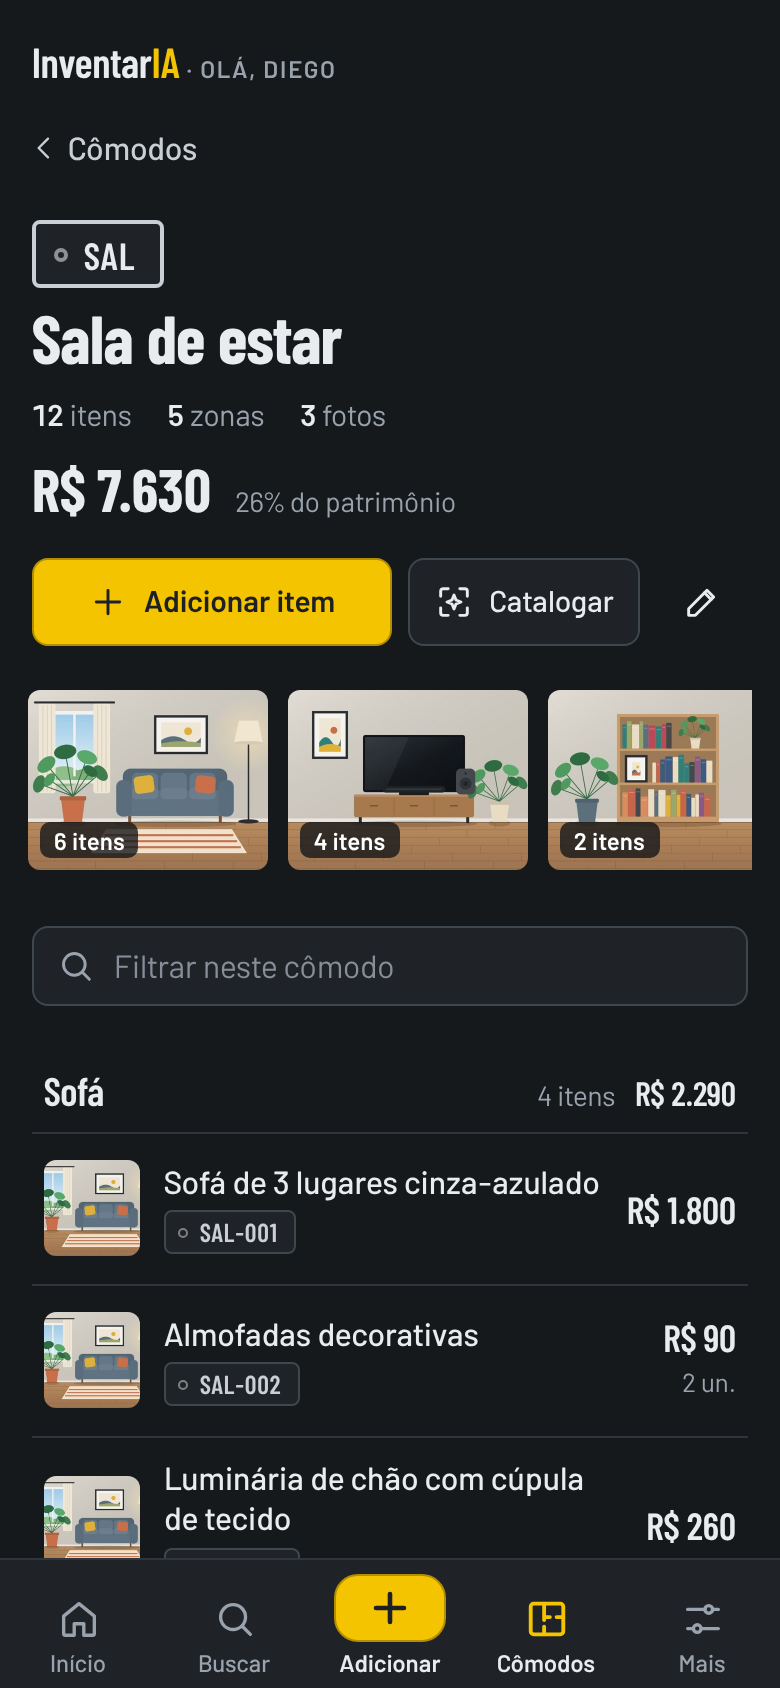
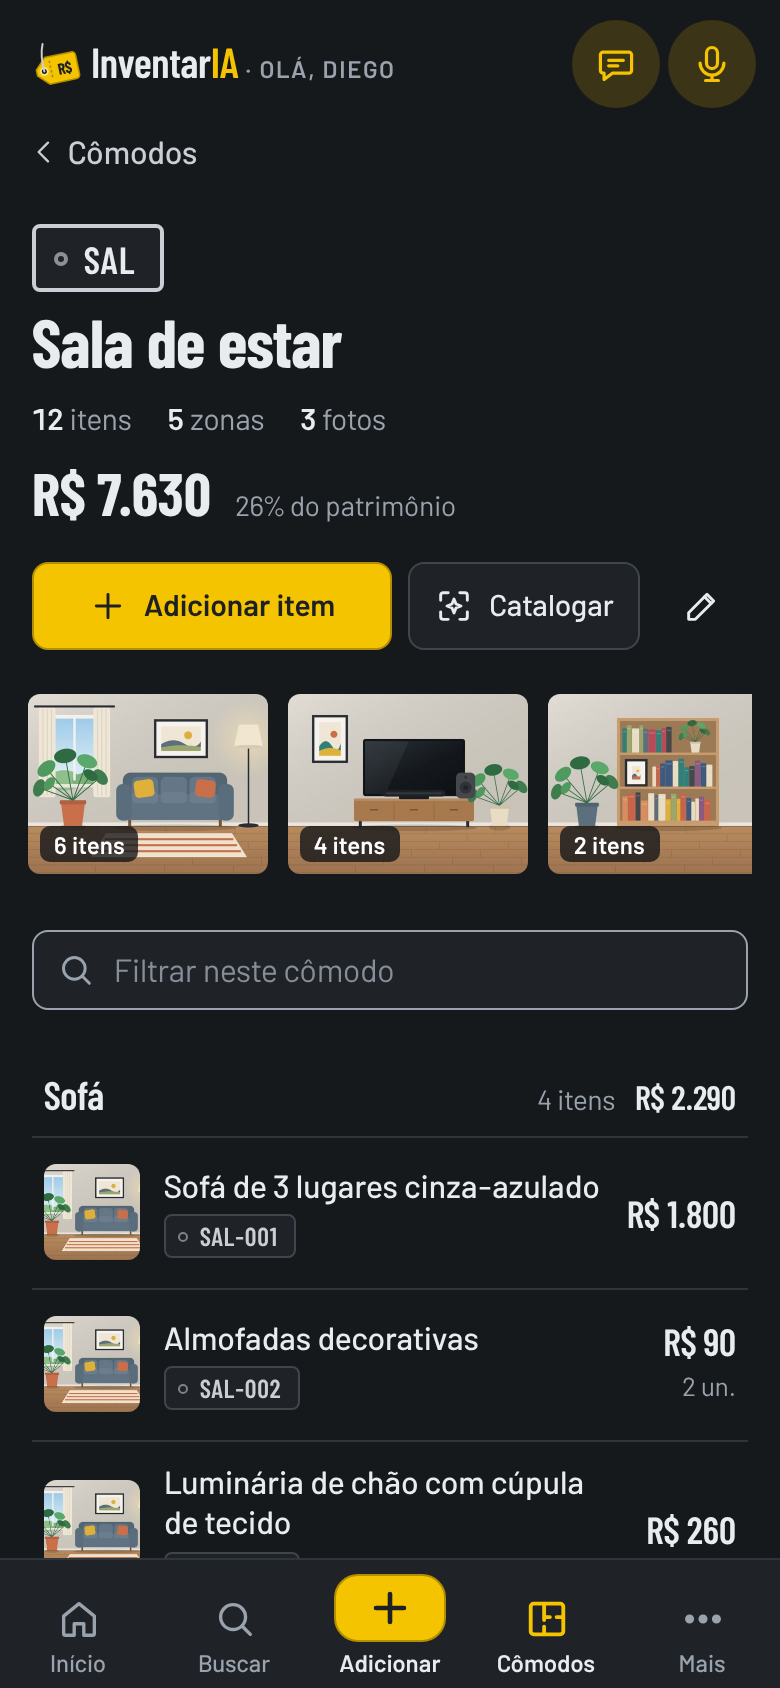
InventarIA: README, manual e prints atualizados
- README: busca no Início, fotos do cômodo com os itens, Duplicar/Mover/Excluir
  com Desfazer, Falar sem IA, os outros apps da casa (ResolvIA, CronologIA,
  GerencIA) e celular/computador.
- DOCS: Ficha do item, Preencher com IA, fotos do cômodo, Relatório e
  Categorias no menu Mais, Configurações num item próprio, barra lateral do
  computador, tipos do Uso da IA, integração com os outros apps e o caminho
  certo da loja (Aplicativos > Loja de aplicativos).
- Prints refeitos com a tela de hoje; Gráficos entra no lugar da lista de
  Cômodos. shots_readme.py liga as zonas sozinho; demo.py usa datas recentes,
  espalhadas por uns três meses.

Claude-Session: https://claude.ai/code/session_019b4houP2YyLE6hAAt79Mdj

diff --git a/tools/shots_readme.py b/tools/shots_readme.py
@@ -1,13 +1,16 @@
 #!/usr/bin/env python3
-"""Tira as 4 imagens do README (docs/*.png) com a casa de exemplo de demo.py.
+"""Tira as 4 imagens do README (docs/*.png) com a casa de exemplo de demo.py: Início, Gráficos, um cômodo e a leitura por IA.
 
 Uso: shots_readme.py <url-do-servidor-de-exemplo> <ia.json> <pasta-de-saida>
-Celular 390x844 em 2x, tema escuro, cor padrão (amarelo, sem a Cor do dia), usuário "Diego".
+O servidor de exemplo é o server.py com INV_SEED=<saída do demo.py>/seed, INV_DEV=1 e INV_AI_MOCK=1, numa porta livre
+(INV_PORT). Liga as zonas no servidor. Celular 390x844 em 2x, tema escuro, cor padrão (amarelo, sem a Cor do dia),
+usuário "Diego".
 """
 import asyncio
 import json
 import os
 import sys
+import urllib.request
 
 from playwright.async_api import async_playwright
 
@@ -17,6 +20,10 @@ BASE, IA, OUT = sys.argv[1].rstrip("/") + "/", sys.argv[2], sys.argv[3]
 async def main():
     os.makedirs(OUT, exist_ok=True)
     ia = json.load(open(IA, encoding="utf-8"))
+    # zonas ligadas: a sala aparece separada por zona, com o subtotal de cada uma
+    req = urllib.request.Request(BASE + "api/settings", data=json.dumps({"ai": True, "zones": True}).encode(), method="PUT",
+                                 headers={"Content-Type": "application/json"})
+    urllib.request.urlopen(req).read()
     errors = []
     async with async_playwright() as p:
         b = await p.chromium.launch()
@@ -36,11 +43,12 @@ async def main():
         await pg.evaluate("document.fonts.ready")
         await shot("inicio.png")
 
-        await pg.click('.tabbar [data-tab="rooms"]')
-        await pg.wait_for_selector(".rooms")
-        await shot("comodos.png")
+        await pg.click('.tabbar [data-tab="data"]')
+        await pg.click('.menu-row[href="#/graficos"]')
+        await pg.wait_for_selector(".kpis")
+        await shot("graficos.png")
 
-        await pg.click('.rooms a[href="#/c/sala"]')
+        await pg.click('#g-rooms a[href="#/c/sala"]')
         await pg.wait_for_selector(".rhead")
         await shot("comodo.png")
 

diff --git a/tools/demo.py b/tools/demo.py
@@ -615,7 +615,10 @@ async def render():
 def data():
     from datetime import datetime, timedelta, timezone
     tz = timezone(timedelta(hours=-3))
-    now = datetime(2026, 10, 18, 18, 0, tzinfo=tz)
+    # as datas acompanham o dia em que as imagens são tiradas ("há 3 horas" no Início), e os cômodos foram cadastrados
+    # ao longo de uns três meses, para Mais > Gráficos ter o patrimônio mês a mês
+    now = datetime.now(tz).replace(minute=0, second=0, microsecond=0)
+    weeks = {"sala": 10, "cozinha": 7, "quarto": 4, "escritorio": 2}
     rooms = []
     for i, (rid, code, name, photos) in enumerate(ROOMS):
         rooms.append({"id": rid, "code": code, "name": name, "order": i, "cover": 0,
@@ -624,7 +627,7 @@ def data():
     for rid, zone, name, details, cat, qty, value, photo, hours in ITEMS:
         seq[rid] = seq.get(rid, 0) + 1
         code = next(r[1] for r in ROOMS if r[0] == rid)
-        when = (now - timedelta(hours=hours)).isoformat()
+        when = (now - timedelta(hours=hours, weeks=weeks.get(rid, 0))).isoformat()
         items.append({"id": f"{code.lower()}-{seq[rid]:03d}", "room": rid, "seq": seq[rid], "zone": zone, "name": name, "details": details,
                       "cat": cat, "qty": qty, "value": value, "photos": [photo] if photo else [], "checked": False, "flag": None,
                       "approx": True, "source": "foto" if photo else "manual", "createdAt": when, "updatedAt": when})

diff --git a/inventario/DOCS.md b/inventario/DOCS.md
@@ -1,6 +1,6 @@
 # InventarIA
 
-O InventarIA é o inventário da casa dentro do Home Assistant: cômodos, itens com fotos e valores, busca, relatório para seguro e, se você quiser, leitura de fotos por IA e zonas dentro dos cômodos.
+O InventarIA é o inventário da casa dentro do Home Assistant: cômodos, itens com fotos e valores, busca, gráficos, relatório para seguro e, se você quiser, leitura de fotos por IA e zonas dentro dos cômodos.
 
 O app abre pela barra lateral (Ingress). Quem já está logado no Home Assistant usa direto, sem outra senha.
 
@@ -15,20 +15,24 @@ Depois disso, tudo o que você muda fica salvo no app. Atualizar ou reiniciar o 
 
 ## Como usar
 
-- **Início**: patrimônio total, a busca logo abaixo da etiqueta, cômodos (com a parte de cada um no total) e últimos cadastros. As categorias e os itens mais valiosos ficam em **Mais > Gráficos**.
+- **Início**: a etiqueta do patrimônio, a busca logo abaixo, os destaques (mais valioso, maior cômodo, último cadastro e fotos), os cômodos (com a parte de cada um no total) e os cadastrados recentemente. As categorias e os itens mais valiosos ficam em **Mais > Gráficos**.
 - **Cômodos** (aba ao lado de Adicionar): todos os cômodos com foto, número de itens e valor. Toque num cômodo para abrir. Em **Organizar**, as setas mudam a ordem (que vale para o app todo e para o relatório) e o lápis edita nome, código e fotos.
-- **Cômodo**: fotos do cômodo e a lista dos itens, na ordem dos códigos. Com as zonas ligadas, os itens aparecem separados por zona, com o subtotal de cada uma.
-- **Adicionar item**: nome, detalhes, cômodo, categoria, quantidade e valor total (e a zona, se estiver ligada). Dá para tirar foto pelo celular, enviar da galeria, arrastar uma foto ou colar com Ctrl+V. No app do Home Assistant para Android, **Tirar foto** abre a câmera do próprio InventarIA, como no ResolvIA (na primeira vez, o celular pede permissão). "Salvar e adicionar outro" mantém o cômodo para cadastrar em sequência.
-- **Catalogar foto com IA**: tire uma foto de uma prateleira ou de um canto da casa; a IA lista os objetos com nome, categoria, quantidade e uma sugestão de valor. Você confere, ajusta e escolhe o que entra.
+- **Cômodo**: fotos do cômodo e a lista dos itens, na ordem dos códigos (com mais de 6 itens, aparece **Filtrar neste cômodo**). Com as zonas ligadas, os itens aparecem separados por zona, com o subtotal de cada uma. Toque numa foto para ver os itens que estão nela, mudar a legenda, usar como capa, adicionar um item com ela, catalogar com IA ou tirá-la do cômodo.
+- **Adicionar item**: nome, detalhes, cômodo, categoria, quantidade e valor total (e a zona, se estiver ligada). Dá para tirar foto pelo celular, enviar da galeria, usar uma das **Fotos do cômodo**, arrastar uma foto ou colar com Ctrl+V; a primeira é a capa. No app do Home Assistant para Android, **Tirar foto** abre a câmera do próprio InventarIA, como no ResolvIA (na primeira vez, o celular pede permissão). Com uma foto, **Preencher com IA** lê a primeira e preenche nome, detalhes, categoria e valor, com **Desfazer** no aviso; o que você já escreveu nos detalhes, na quantidade e no valor fica, e dá para dar uma dica à IA ("é uma cafeteira Oster"). **Observação** guarda um lembrete sobre o item. "Salvar e adicionar outro" mantém o cômodo para cadastrar em sequência.
+- **Ficha do item**: toque num item para ver as fotos (toque para ampliar), o valor (e o de cada unidade), os detalhes, o cômodo, a categoria, a origem, quem cadastrou e quando, e as novidades. Embaixo ficam **Editar**, **Duplicar**, **Mover** (para outro cômodo ou zona; em outro cômodo, o item ganha um código novo) e **Excluir**. Mover e Excluir têm **Desfazer** no aviso.
+- **Catalogar foto com IA**: tire uma foto de uma prateleira ou de um canto da casa (ou use uma foto do cômodo); a IA lista os objetos com nome, categoria, quantidade e uma sugestão de valor. Você confere, ajusta e escolhe o que entra. O que parece já cadastrado e o que a IA não tem certeza vêm marcados.
 - **Falar**: o microfone no alto da tela. Fale os itens e quanto valem, e o app separa cada um para você conferir. Veja [Falar](#falar).
 - **Novidades**: na ficha do item, a IA procura na web atualizações, lançamentos, modelo novo, recalls e fim de suporte do produto; em **Mais > Novidades**, de todos os eletrônicos de uma vez. Veja [Novidades do produto](#novidades-do-produto).
 - **Conversar**: o balão ao lado do microfone abre uma conversa com a IA, a qualquer momento, sobre o que está na tela ou qualquer outro assunto. Veja [Conversar](#conversar).
 - **Buscar na internet**: num item sem foto (ou no editor do item), a IA procura o produto no fabricante e nas lojas e o app mostra as fotos encontradas para você escolher. Na mesma busca, a IA traz nome, detalhes, categoria e valor do produto para preencher o item. Veja [Fotos da internet](#fotos-da-internet).
-- **Buscar**: por nome, marca ou detalhe, sem se preocupar com acentos. Filtre por cômodo e categoria e ordene por valor, nome ou data.
-- **Relatório**: lista por cômodo com fotos e valores, pronta para imprimir ou salvar em PDF (útil para seguro).
-- **Mais** é um menu: **Gráficos**, **Novidades**, **Categorias**, **Relatório para seguro** e **Configurações**.
-- **Gráficos** (Mais > Gráficos): o patrimônio, quantos itens, o valor médio e quantos têm foto; os cômodos e as categorias que mais valem, do maior para o menor, com o valor e a parte do total; quantos itens há em cada faixa de valor; os 10 itens mais valiosos; e, quando há itens de mais de um mês, o patrimônio mês a mês pela data de cadastro (toque no gráfico para ver o valor de cada mês, ou **Ver mês a mês** para a tabela). Tocar numa linha abre o cômodo, a busca da categoria ou a ficha do item. Configurações, em abas como nos outros apps: **Dados** (exportar planilha, JSON e ZIP com fotos; backup; importar; versões anteriores), **Integrações** (ligar ou desligar a IA e escolher qual IA do Home Assistant usar), **Aparência** (tema claro, escuro ou automático e a cor do app: amarelo, laranja, coral, rosa, lilás, azul, turquesa, verde, kraft ou cinza; com a **Cor do dia**, ligada de início, a cor muda todo dia, a mesma o dia todo e em todos os aparelhos, sem o cinza; escolher uma cor desliga a Cor do dia) e **Opções** (as zonas). O tema e a cor ficam em cada aparelho; a IA e as zonas valem para todos.
-- No celular, **arrastar para o lado** troca de aba (Início, Buscar, Cômodos e Mais); dentro de um cômodo, arrastar para a direita volta para Cômodos, e em Novidades, Categorias, Relatório ou Configurações, volta para o menu Mais.
+- **Buscar**: por nome, marca ou detalhe, sem se preocupar com acentos. Filtre por cômodo e categoria e ordene por valor, nome, data ou código.
+- **Mais** é um menu: **Gráficos**, **Novidades** (com a IA ligada), **Categorias**, **Relatório para seguro** e **Configurações**. Cada um abre a sua tela, com **‹ Mais** no alto para voltar.
+- **Gráficos** (Mais > Gráficos): o patrimônio, quantos itens, o valor médio e quantos têm foto; os cômodos e as categorias que mais valem, do maior para o menor, com o valor e a parte do total; quantos itens há em cada faixa de valor; os 10 itens mais valiosos; e, quando há itens de mais de um mês, o patrimônio mês a mês pela data de cadastro (toque no gráfico para ver o valor de cada mês, ou **Ver mês a mês** para a tabela). Tocar numa linha abre o cômodo, a busca da categoria ou a ficha do item.
+- **Categorias** (Mais > Categorias): renomeie, crie ou exclua categorias; cada uma mostra quantos itens tem. Os itens de uma categoria excluída vão para Outros, que não pode ser excluída. As categorias ficam no inventário: entram no backup, na exportação e nas versões, valem para todos os aparelhos, e a IA passa a usar as novas.
+- **Relatório para seguro** (Mais > Relatório para seguro; no computador, também na barra lateral): o patrimônio, a tabela dos cômodos e os itens de cada um, com código, foto, quantidade e valor, pronto para imprimir ou salvar em PDF. **Mostrar fotos** desmarcado deixa o relatório só com o texto.
+- **Configurações** (Mais > Configurações), em abas como nos outros apps: **Dados** (exportar planilha, JSON e ZIP com fotos; backup; importar; versões anteriores), **Integrações** (ligar ou desligar a IA e escolher qual IA do Home Assistant usar, Falar, Uso da IA e sensores), **Aparência** (tema claro, escuro ou automático e a cor do app: amarelo, laranja, coral, rosa, lilás, azul, turquesa, verde, kraft ou cinza; com a **Cor do dia**, ligada de início, a cor muda todo dia, a mesma o dia todo e em todos os aparelhos, sem o cinza; escolher uma cor desliga a Cor do dia) e **Opções** (as zonas). O tema e a cor ficam em cada aparelho; a IA e as zonas valem para todos.
+- No celular, **arrastar para o lado** troca de aba (Início, Buscar, Cômodos e Mais); dentro de um cômodo, arrastar para a direita volta para Cômodos, e em Gráficos, Novidades, Categorias, Relatório ou Configurações, volta para o menu Mais.
+- No computador (tela de 1000 pixels ou mais), a barra de baixo vira uma **barra lateral**: Início, Buscar, Cômodos, Relatório e Mais, e embaixo os cômodos, com o valor de cada um, e **Novo cômodo**. **Catalogar foto com IA** e **Adicionar item** ficam no alto da tela.
 - Atalhos no computador: `/` abre a busca, `N` cria um item, `Ctrl+Enter` salva o formulário.
 
 O valor de cada item é o que você quiser registrar, somando todas as unidades.
@@ -37,8 +41,6 @@ O valor de cada item é o que você quiser registrar, somando todas as unidades.
 
 - **Usar IA** (Mais > Configurações > Integrações), ligada de início: desligada, o app esconde tudo o que usa IA (Catalogar foto com IA, Preencher com IA, Buscar na internet, Novidades, Conversar) e não chama a IA. O **Falar** continua: quem transcreve é a fala para texto do Home Assistant, e o próprio app separa os itens pelas vírgulas.
 - **Usar zonas** (Mais > Configurações > Opções), desligada de início: as zonas dividem um cômodo em partes, como Estante, Bancada ou Rack da TV. Ligadas, aparecem o campo Zona no cadastro, a zona na ficha do item, na busca e no relatório, e os itens de cada cômodo ficam separados por zona.
-
-- **Categorias** (Mais > Categorias): renomeie, crie ou exclua categorias. Os itens de uma categoria excluída vão para Outros, que não pode ser excluída. As categorias ficam no inventário: entram no backup, na exportação e nas versões, e a IA passa a usar as novas.
 
 Desligar uma opção só esconde: nada do que já foi gravado se perde, e ligar de novo traz tudo de volta.
 
@@ -76,7 +78,7 @@ O **microfone** fica no alto da tela, à direita (e também em **Adicionar > Fal
 
 ## Uso da IA
 
-Em **Mais > Configurações > Integrações > Uso da IA** ficam as chamadas de hoje, dos últimos 7 dias e do mês, um gráfico por dia (toque numa barra para ver o dia), o tipo de uso (Preencher com IA, Catalogar foto e Buscar foto na internet) e as últimas chamadas, com a IA usada, o tempo e o resultado (cota excedida, resposta fora do formato, IA sem busca na web ou erro).
+Em **Mais > Configurações > Integrações > Uso da IA** ficam as chamadas de hoje, dos últimos 7 dias e do mês, um gráfico por dia (toque numa barra para ver o dia), o tipo de uso (Preencher com IA, Catalogar foto, Buscar foto na internet, Falar, Novidades, Escolher equipamentos e Conversar) e as últimas chamadas, com a IA usada, o tempo e o resultado (cota excedida, resposta fora do formato, IA sem busca na web ou erro).
 
 O Home Assistant não informa tokens nem custo, então o app conta as chamadas e estima os tokens pelo tamanho do texto (uns 4 caracteres por token). As imagens e a busca na web gastam mais do que essa estimativa. O consumo exato e o custo ficam no painel do provedor: Google Cloud Console para o Gemini, platform.openai.com/usage para a OpenAI e Claude Console para a Anthropic.
 
@@ -135,13 +137,15 @@ Para restaurar, use **Mais > Configurações > Dados**: escolha um backup da pas
 
 ## Cômodos e itens nos outros apps
 
-O **ResolvIA** (2.28.0 ou mais novo) pode ligar uma tarefa a um cômodo daqui e, a partir da 2.29.0, a um item (um equipamento, um móvel…). Para isso, o InventarIA grava `share/inventario/integracao.json` com o endereço dele na rede interna dos apps e uma chave, e responde só a lista de cômodos e de itens (nome, cômodo, zona e categoria) para quem tem essa chave. A tela do InventarIA continua abrindo só pelo Home Assistant.
+A ligação é automática, sem nada para configurar aqui: o InventarIA grava `share/inventario/integracao.json` com o endereço dele na rede interna dos apps e uma chave, e responde só a lista de cômodos e de itens (nome, cômodo, zona, categoria, valor e a data do valor) para quem tem essa chave. Os outros apps só leem; nada muda aqui. A tela do InventarIA continua abrindo só pelo Home Assistant.
 
-O **GerencIA** (1.19.0 ou mais novo) usa a mesma ligação para somar os valores dos itens no patrimônio, como bens: lê o valor e a data em que ele mudou e deprecia por categoria (eletrônicos perdem mais rápido que móveis, por exemplo). Nada é alterado aqui.
+- **ResolvIA** (2.28.0 ou mais novo): liga uma tarefa a um cômodo daqui e, a partir da 2.29.0, a um ou mais itens (um equipamento, um móvel…). Ligue lá, em **Mais > Configurações > Integrações > InventarIA** (**Usar cômodos** e **Usar equipamentos**, desligados de início).
+- **CronologIA**: recebe os cômodos e os itens pelo ResolvIA. As tarefas mostram o cômodo e o equipamento, e o **Novo > Tarefa** pede os dois.
+- **GerencIA** (1.19.0 ou mais novo): soma os valores dos itens no patrimônio, como **Bens da casa**. Lê o valor e a data em que ele mudou e deprecia por categoria (eletrônicos perdem mais rápido que móveis, por exemplo). Dá para desligar lá, em **Mais > Integrações > Bens no InventarIA**.
 
 ## Atualizar o app
 
-Quando sai uma versão nova, o Home Assistant mostra **Atualizar** na página do app e em **Configurações > Atualizações**. Para procurar na hora, abra **Configurações > Apps > Loja de apps**, toque no menu e escolha **Verificar atualizações**. Os dados não são apagados.
+Quando sai uma versão nova, o Home Assistant mostra **Atualizar** na página do app e em **Configurações > Atualizações**. Para procurar na hora, abra **Configurações > Aplicativos > Loja de aplicativos**, toque no menu **⋮** e escolha **Verificar atualizações**. Os dados não são apagados.
 
 ## Problemas comuns
 

diff --git a/README.md b/README.md
@@ -5,8 +5,8 @@
 Um App do Home Assistant para fazer o **inventário da casa**: cômodos, itens, **fotos e valores**, com **relatório para seguro** e **leitura de fotos por IA**, pela integração de IA que você já usa no Home Assistant.
 
 <p align="center">
-  <img src="docs/inicio.png" width="24%" alt="Início com a etiqueta do patrimônio">
-  <img src="docs/comodos.png" width="24%" alt="Cômodos com foto, itens e valor">
+  <img src="docs/inicio.png" width="24%" alt="Início com a etiqueta do patrimônio e os destaques">
+  <img src="docs/graficos.png" width="24%" alt="Gráficos com o patrimônio e o valor de cada cômodo">
   <img src="docs/comodo.png" width="24%" alt="Sala de estar com fotos e itens por zona">
   <img src="docs/ia.png" width="24%" alt="Itens que a IA encontrou na foto de uma estante">
 </p>
@@ -27,11 +27,11 @@ A primeira instalação leva alguns minutos, porque o app é montado no próprio
 
 ## O que tem
 
-- **Início** com a etiqueta do patrimônio, o item mais valioso, o maior cômodo, os últimos cadastros e a parte de cada cômodo no total.
-- **Cômodos** com foto, número de itens e valor. Em **Organizar**, as setas mudam a ordem. Se quiser, ligue as **zonas** para separar os itens de cada cômodo (sofá, estante, bancada), com o subtotal de cada uma.
-- **Cadastro de itens** com várias fotos (câmera, galeria, arrastar ou colar), quantidade e valor, e **categorias** que você renomeia, cria ou exclui.
+- **Início** com a etiqueta do patrimônio, a busca, o item mais valioso, o maior cômodo, os últimos cadastros e a parte de cada cômodo no total.
+- **Cômodos** com foto, número de itens e valor. Em **Organizar**, as setas mudam a ordem. Cada foto do cômodo mostra os itens que estão nela. Se quiser, ligue as **zonas** para separar os itens de cada cômodo (sofá, estante, bancada), com o subtotal de cada uma.
+- **Cadastro de itens** com várias fotos (câmera, galeria, arrastar ou colar), quantidade e valor, e **categorias** que você renomeia, cria ou exclui. Na ficha do item, **Duplicar**, **Mover** e **Excluir**, com Desfazer.
 - **Leitura de fotos por IA**: a IA preenche um item a partir da foto, ou lista tudo o que aparece numa foto de prateleira, e você confere antes de salvar. Funciona com Anthropic Claude, OpenAI, Google Gemini ou um modelo local no Ollama, pela ação `ai_task.generate_data` do Home Assistant. Quem não quiser IA desliga numa chave e os botões somem.
-- **Falar**: o microfone no alto da tela. Fale os itens e quanto valem; o Home Assistant transcreve com a fala para texto que você escolher (ou a do Assist) e a IA separa os itens para você conferir.
+- **Falar**: o microfone no alto da tela. Fale os itens e quanto valem; o Home Assistant transcreve com a fala para texto que você escolher (ou a do Assist) e a IA separa os itens para você conferir. Sem IA, o próprio app separa.
 - **Uso da IA**: chamadas de hoje, da semana e do mês, gráfico por dia, últimas chamadas com tokens estimados e, se você ligar, o sensor `sensor.inventaria_ia_hoje` no Home Assistant.
 - **Fotos da internet**: num item sem foto, a IA procura o produto no fabricante e nas lojas e o app mostra as fotos para você escolher. A foto fica marcada como ilustrativa, com o site de onde veio. Na mesma busca, a IA traz nome, detalhes, categoria e valor para preencher o item.
 - **Novidades** de cada item ou de todos os eletrônicos de uma vez (a IA escolhe quais): atualizações, lançamentos, modelo novo, recalls e fim de suporte, com a fonte de cada um.
@@ -41,6 +41,8 @@ A primeira instalação leva alguns minutos, porque o app é montado no próprio
 - **Gráficos**: os cômodos, as categorias e os itens que mais valem, as faixas de valor e o patrimônio mês a mês.
 - **Exportar** em CSV, JSON ou ZIP com fotos, **backup** na pasta `share/inventario` e versões automáticas a cada 10 minutos de uso.
 - **Importar backup** pelo celular, inclusive dividido em partes.
+- **Nos outros apps da casa**: o [ResolvIA](https://github.com/diegozapella63/resolvia-ha) liga tarefas a cômodos e itens daqui (e o [CronologIA](https://github.com/diegozapella63/cronologia-ha) mostra nas tarefas), e o [GerencIA](https://github.com/diegozapella63/gerencia-ha) soma os itens no patrimônio, como bens. Eles só leem: nada muda aqui.
+- **Celular e computador**: no celular, arrastar para o lado troca de aba; no computador, barra lateral com os cômodos e atalhos de teclado.
 - **Tema claro e escuro** e **cor do app**: amarelo, laranja, coral, rosa, lilás, azul, turquesa, verde, kraft ou cinza, ou a **Cor do dia**, que muda todo dia.
 
 Mais detalhes em [inventario/DOCS.md](inventario/DOCS.md).
